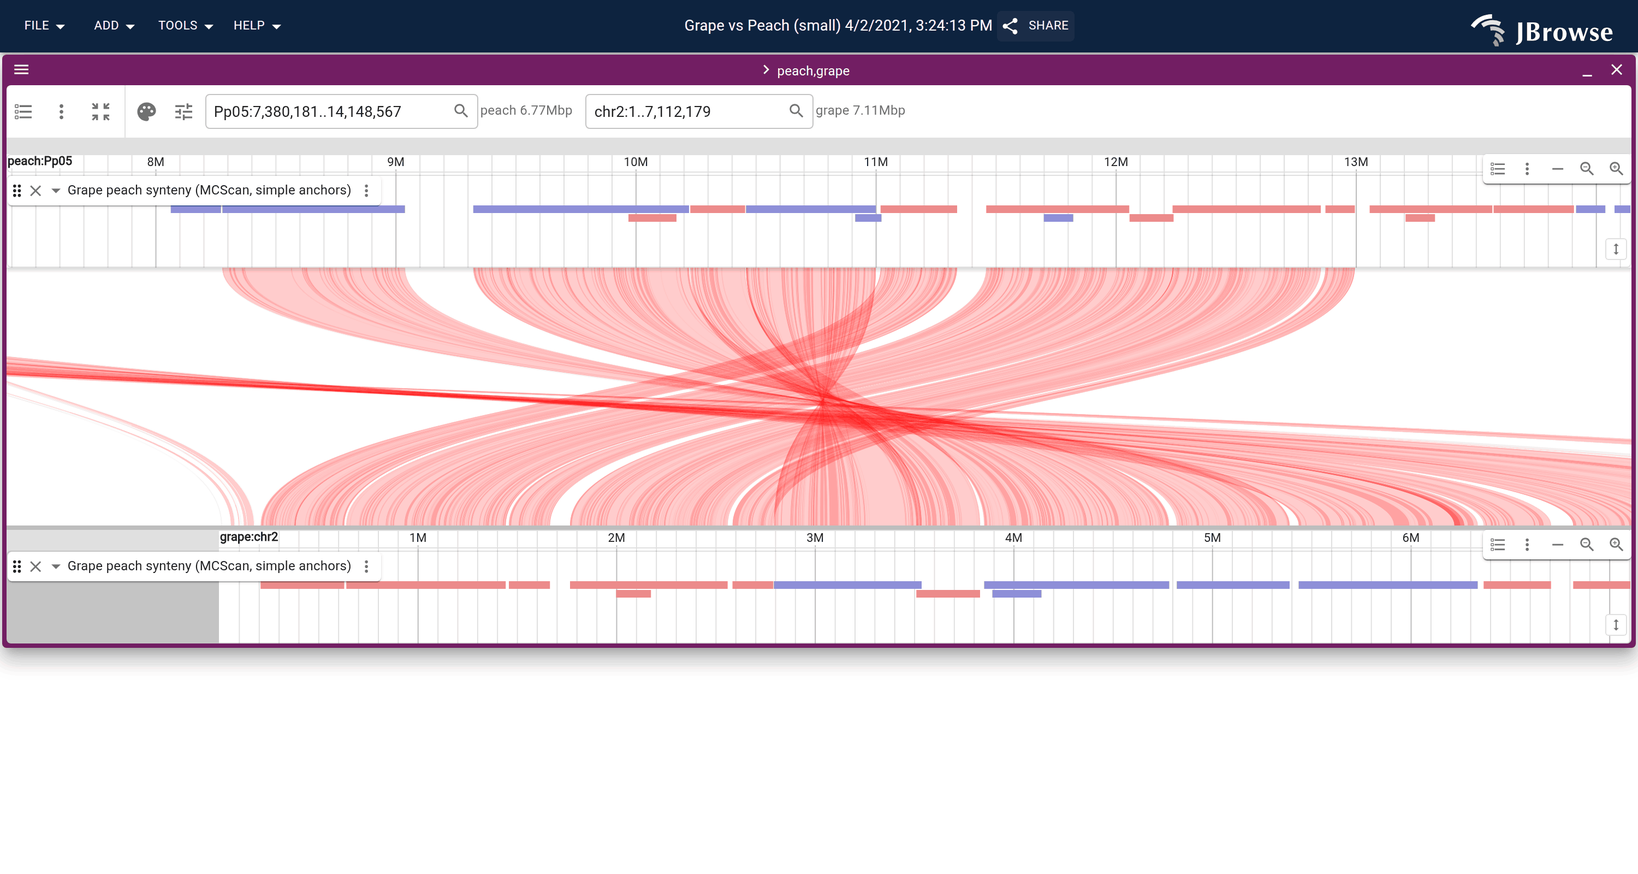
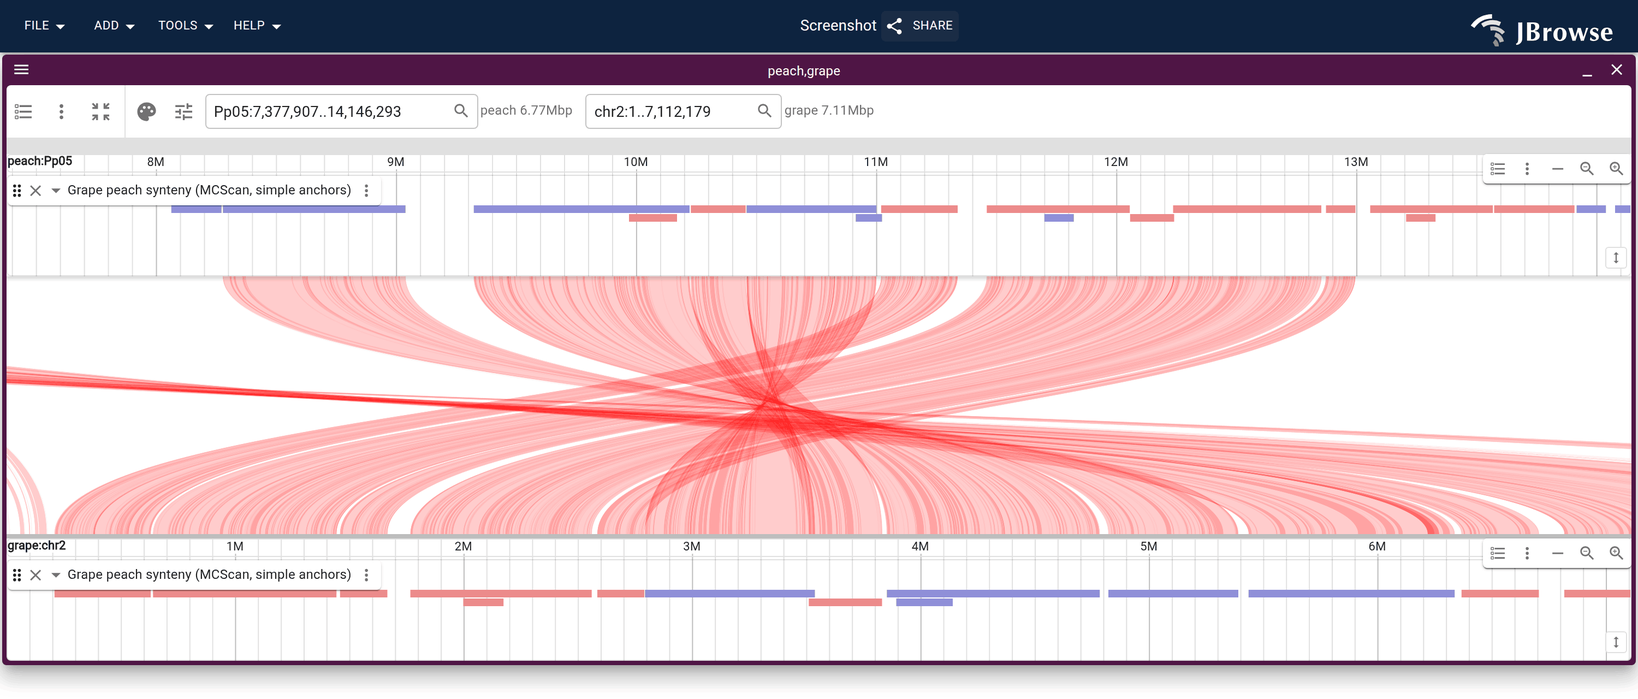
fix(website): retire the gallery's share-link sessions and fix wrong captions
The gallery had two cards backed by opaque `share-` sessions on
share.jbrowse.org. Decrypting both showed why that is not a safe way to
pin a figure:

- `share-sA7riIQWhJ` ("Read pair and split-read connections") was a
  Jan-2025 snapshot of the pre-4.4 composite LinearAlignmentsDisplay,
  with its settings nested under `PileupDisplay` / `heightPreConfig` /
  `colorBySetting`. migrateAlignmentsSnapshot only remaps the top-level
  `type`, so MST dropped all of it and the card opened as an unstyled
  pileup - with the connection curves, its entire subject, missing. It
  also re-added an ONT-UL track that is ~52MB over this window, past the
  region-size gate. The comment above the read-cloud item already
  documented this exact failure being fixed there; this one was missed.
- `share-4MjF5YGM_G` (`linear_synteny_gallery`) was a frozen Apr-2021
  session, so the capture baked a stale "Grape vs Peach (small)
  4/2/2021" name into the title bar, and its grape panel sat at a
  negative offsetPx, leaving a grey off-region block in the corner.

Rebuilt the synteny one declaratively (locs read off the old capture's
own location boxes) and dropped the read-connections card, which review
judged not gallery-worthy. No `session=share-` remains in the figure
pipeline. Read-cloud now points at the purpose-built
`alignments/read_cloud` spec rather than a hand-written session with no
figure.

A gallery-only `gallery/inverted_duplication` splits the doc figure from
[…]

diff --git a/website/src/lib/galleryLinks.generated.ts b/website/src/lib/galleryLinks.generated.ts
@@ -14,8 +14,9 @@ export const specSessionUrls: Record<string, string> = {
   "multiway_synteny/ecoli_pangenome": "?config=https%3A%2F%2Fjbrowse.org%2Fdemos%2Fecoli_pangenome%2Fconfig.json&session=spec-%7B%22views%22%3A%5B%7B%22type%22%3A%22LinearSyntenyView%22%2C%22views%22%3A%5B%7B%22assembly%22%3A%22K12%22%7D%2C%7B%22assembly%22%3A%22Sakai%22%7D%2C%7B%22assembly%22%3A%22CFT073%22%7D%2C%7B%22assembly%22%3A%22NCTC86%22%7D%5D%2C%22tracks%22%3A%5B%5B%22ecoli_ava%22%5D%2C%5B%22ecoli_ava%22%5D%2C%5B%22ecoli_ava%22%5D%5D%2C%22drawCurves%22%3Afalse%2C%22colorBy%22%3A%22default%22%2C%22minAlignmentLength%22%3A10000%7D%5D%7D&sessionName=Screenshot",
   "multiway_synteny/ecoli_stx_island": "?config=https%3A%2F%2Fjbrowse.org%2Fdemos%2Fecoli_pangenome%2Fconfig.json&session=spec-%7B%22views%22%3A%5B%7B%22type%22%3A%22LinearSyntenyView%22%2C%22views%22%3A%5B%7B%22assembly%22%3A%22K12%22%2C%22loc%22%3A%22chr%3A1%2C026%2C000-1%2C126%2C000%22%2C%22tracks%22%3A%5B%7B%22trackId%22%3A%22K12_genes%22%2C%22showOnlyGenes%22%3Atrue%2C%22displayMode%22%3A%22compact%22%2C%22showDescriptions%22%3Afalse%7D%5D%7D%2C%7B%22assembly%22%3A%22Sakai%22%2C%22loc%22%3A%22chr%3A1%2C205%2C000-1%2C305%2C000%22%2C%22tracks%22%3A%5B%7B%22trackId%22%3A%22Sakai_genes%22%2C%22showOnlyGenes%22%3Atrue%2C%22displayMode%22%3A%22compact%22%2C%22showDescriptions%22%3Afalse%7D%5D%7D%5D%2C%22tracks%22%3A%5B%5B%22ecoli_ava%22%5D%5D%2C%22drawCurves%22%3Atrue%2C%22colorBy%22%3A%22default%22%7D%5D%7D&sessionName=Screenshot",
   "multiway_synteny/ecoli_one_vs_all": "?config=https%3A%2F%2Fjbrowse.org%2Fdemos%2Fecoli_pangenome%2Fconfig.json&session=spec-%7B%22views%22%3A%5B%7B%22type%22%3A%22LinearGenomeView%22%2C%22assembly%22%3A%22K12%22%2C%22loc%22%3A%22chr%3A1%2C433%2C000-1%2C467%2C500%22%2C%22tracks%22%3A%5B%7B%22trackId%22%3A%22K12_genes%22%2C%22showOnlyGenes%22%3Atrue%2C%22displayMode%22%3A%22compact%22%2C%22showDescriptions%22%3Afalse%7D%2C%7B%22trackId%22%3A%22ecoli_ava%22%2C%22type%22%3A%22LGVSyntenyDisplay%22%2C%22groupBy%22%3A%7B%22type%22%3A%22mateAssembly%22%7D%2C%22height%22%3A250%7D%5D%7D%5D%7D&sessionName=Screenshot",
+  "multiway_synteny/ecoli_one_vs_all_whole_genome": "?config=https%3A%2F%2Fjbrowse.org%2Fdemos%2Fecoli_pangenome%2Fconfig.json&session=spec-%7B%22views%22%3A%5B%7B%22type%22%3A%22LinearGenomeView%22%2C%22assembly%22%3A%22K12%22%2C%22loc%22%3A%22chr%3A1-4%2C641%2C652%22%2C%22tracks%22%3A%5B%7B%22trackId%22%3A%22ecoli_pggb_ava%22%2C%22type%22%3A%22LGVSyntenyDisplay%22%2C%22groupBy%22%3A%7B%22type%22%3A%22mateAssembly%22%7D%2C%22height%22%3A130%7D%5D%7D%5D%7D&sessionName=Screenshot",
   "multiway_synteny/ecoli_import_form": "?config=https%3A%2F%2Fjbrowse.org%2Fdemos%2Fecoli_pangenome%2Fconfig.json&session=spec-%7B%22views%22%3A%5B%5D%7D&sessionName=Screenshot",
-  "linear_synteny_gallery": "?config=test_data%2Fconfig_dotplot.json&session=share-4MjF5YGM_G&password=rByjt",
+  "linear_synteny_gallery": "?config=test_data/config_dotplot.json&session=spec-%7B%22views%22%3A%5B%7B%22type%22%3A%22LinearSyntenyView%22%2C%22drawCurves%22%3Atrue%2C%22tracks%22%3A%5B%5B%22grape_peach_synteny_mcscan%22%2C%22grape_peach_synteny_mcscan_simple%22%5D%5D%2C%22levelHeights%22%3A%5B236%5D%2C%22views%22%3A%5B%7B%22assembly%22%3A%22peach%22%2C%22loc%22%3A%22Pp05%3A7%2C380%2C181-14%2C148%2C567%22%2C%22tracks%22%3A%5B%7B%22trackId%22%3A%22grape_peach_synteny_mcscan_simple%22%2C%22type%22%3A%22LGVSyntenyDisplay%22%2C%22height%22%3A60%7D%5D%7D%2C%7B%22assembly%22%3A%22grape%22%2C%22loc%22%3A%22chr2%3A1-7%2C112%2C179%22%2C%22tracks%22%3A%5B%7B%22trackId%22%3A%22grape_peach_synteny_mcscan_simple%22%2C%22type%22%3A%22LGVSyntenyDisplay%22%2C%22height%22%3A60%7D%5D%7D%5D%7D%5D%7D&sessionName=Screenshot",
   "hs1_vs_mm39_synteny": "?config=test_data/hs1_vs_mm39/config.json&session=spec-%7B%22views%22%3A%5B%7B%22type%22%3A%22LinearSyntenyView%22%2C%22tracks%22%3A%5B%22hs1ToMm39.over.chain.pif%22%5D%2C%22minAlignmentLength%22%3A500000%2C%22drawCurves%22%3Afalse%2C%22autoDiagonalize%22%3Atrue%2C%22colorBy%22%3A%22query%22%2C%22alpha%22%3A0.4%2C%22levelHeights%22%3A%5B350%5D%2C%22views%22%3A%5B%7B%22assembly%22%3A%22hs1%22%7D%2C%7B%22assembly%22%3A%22mm39%22%7D%5D%7D%5D%7D&sessionName=Screenshot",
   "synteny_hg38_hs1_tnnt3": "?config=test_data/hg38_hs1_synteny/config.json&session=spec-%7B%22views%22%3A%5B%7B%22type%22%3A%22LinearSyntenyView%22%2C%22colorBy%22%3A%22strand%22%2C%22tracks%22%3A%5B%5B%22hg38_hs1_synteny%22%5D%5D%2C%22drawCurves%22%3Atrue%2C%22cigarMode%22%3A%22matches%22%2C%22views%22%3A%5B%7B%22assembly%22%3A%22hg38%22%2C%22loc%22%3A%22chr11%3A1%2C881%2C000-1%2C955%2C000%22%2C%22tracks%22%3A%5B%7B%22trackId%22%3A%22hg38-genes%22%2C%22geneGlyphMode%22%3A%22longestCoding%22%7D%5D%2C%22trackLabels%22%3A%22offset%22%7D%2C%7B%22assembly%22%3A%22hs1%22%2C%22loc%22%3A%22chr11%3A1%2C964%2C700-2%2C038%2C700%22%2C%22tracks%22%3A%5B%7B%22trackId%22%3A%22hs1-genes%22%2C%22geneGlyphMode%22%3A%22longestCoding%22%2C%22showOnlyGenes%22%3Atrue%7D%5D%2C%22trackLabels%22%3A%22offset%22%7D%5D%7D%5D%7D&sessionName=Screenshot",
   "genomes_synteny/ribbons_default": "?config=test_data/hg38_hs1_synteny/config.json&session=spec-%7B%22views%22%3A%5B%7B%22type%22%3A%22LinearSyntenyView%22%2C%22colorBy%22%3A%22strand%22%2C%22tracks%22%3A%5B%5B%22hg38_hs1_synteny%22%5D%5D%2C%22views%22%3A%5B%7B%22assembly%22%3A%22hg38%22%2C%22loc%22%3A%22chr11%3A1%2C881%2C000-1%2C955%2C000%22%2C%22tracks%22%3A%5B%7B%22trackId%22%3A%22hg38-genes%22%2C%22geneGlyphMode%22%3A%22longestCoding%22%7D%5D%2C%22trackLabels%22%3A%22offset%22%7D%2C%7B%22assembly%22%3A%22hs1%22%2C%22loc%22%3A%22chr11%3A1%2C964%2C700-2%2C038%2C700%22%2C%22tracks%22%3A%5B%7B%22trackId%22%3A%22hs1-genes%22%2C%22geneGlyphMode%22%3A%22longestCoding%22%2C%22showOnlyGenes%22%3Atrue%7D%5D%2C%22trackLabels%22%3A%22offset%22%7D%5D%7D%5D%7D&sessionName=Screenshot",
@@ -139,6 +140,7 @@ export const specSessionUrls: Record<string, string> = {
   "smalldel": "?config=test_data/config_demo.json&session=spec-%7B%22sessionTracks%22%3A%5B%7B%22type%22%3A%22AlignmentsTrack%22%2C%22trackId%22%3A%22hg002_nanopore_hp%22%2C%22name%22%3A%22HG002%20ONT%22%2C%22assemblyNames%22%3A%5B%22hg19%22%5D%2C%22adapter%22%3A%7B%22type%22%3A%22BamAdapter%22%2C%22bamLocation%22%3A%7B%22uri%22%3A%22https%3A%2F%2Fftp-trace.ncbi.nlm.nih.gov%2Fgiab%2Fftp%2Fdata%2FAshkenazimTrio%2FHG002_NA24385_son%2FUltralong_OxfordNanopore%2Fcombined_2018-08-10%2FHG002_ONTrel2_16x_RG_HP10xtrioRTG.cram.bam%22%2C%22locationType%22%3A%22UriLocation%22%7D%2C%22index%22%3A%7B%22location%22%3A%7B%22uri%22%3A%22https%3A%2F%2Fftp-trace.ncbi.nlm.nih.gov%2Fgiab%2Fftp%2Fdata%2FAshkenazimTrio%2FHG002_NA24385_son%2FUltralong_OxfordNanopore%2Fcombined_2018-08-10%2FHG002_ONTrel2_16x_RG_HP10xtrioRTG.cram.bam.bai%22%2C%22locationType%22%3A%22UriLocation%22%7D%2C%22indexType%22%3A%22BAI%22%7D%7D%7D%5D%2C%22views%22%3A%5B%7B%22type%22%3A%22LinearGenomeView%22%2C%22assembly%22%3A%22hg19%22%2C%22loc%22%3A%221%3A63%2C005%2C675-63%2C007%2C432%22%2C%22tracks%22%3A%5B%22variants_hg002%22%2C%7B%22trackId%22%3A%22hg002_nanopore_hp%22%2C%22type%22%3A%22LinearAlignmentsDisplay%22%2C%22height%22%3A400%2C%22forceLoad%22%3Atrue%2C%22groupBy%22%3A%7B%22type%22%3A%22tag%22%2C%22tag%22%3A%22HP%22%7D%2C%22colorBy%22%3A%7B%22type%22%3A%22tag%22%2C%22tag%22%3A%22HP%22%7D%7D%5D%7D%5D%7D&sessionName=Screenshot",
   "alignment_clipping_indicators": "?config=test_data/volvox/config.json&session=spec-%7B%22views%22%3A%5B%7B%22type%22%3A%22LinearGenomeView%22%2C%22assembly%22%3A%22volvox%22%2C%22loc%22%3A%22ctgA%3A2%2C560-2%2C760%22%2C%22tracks%22%3A%5B%7B%22trackId%22%3A%22volvox-long-reads-sv-bam%22%2C%22type%22%3A%22LinearAlignmentsDisplay%22%2C%22coverageHeight%22%3A120%7D%5D%7D%5D%7D&sessionName=Screenshot",
   "inverted_duplication": "?config=https%3A%2F%2Fjbrowse.org%2Fgenomes%2FGRCh38%2F1000genomes%2Fconfig_1000genomes.json&session=spec-%7B%22views%22%3A%5B%7B%22type%22%3A%22LinearGenomeView%22%2C%22assembly%22%3A%22hg38%22%2C%22loc%22%3A%221%3A39%2C658%2C200-39%2C661%2C800%22%2C%22trackLabels%22%3A%22offset%22%2C%22tracks%22%3A%5B%221KGP_3202.Illumina_ensemble_callset.freeze_V1.vcf%22%2C%7B%22trackId%22%3A%22HG02768.final%22%2C%22linkedReads%22%3A%22normal%22%2C%22readConnections%22%3A%22arc%22%2C%22readConnectionsDown%22%3Atrue%2C%22height%22%3A1300%2C%22coverageHeight%22%3A120%2C%22featureHeight%22%3A9%2C%22colorBy%22%3A%7B%22type%22%3A%22pairOrientation%22%7D%2C%22showLegend%22%3Atrue%7D%5D%7D%5D%7D&sessionName=Screenshot",
+  "gallery/inverted_duplication": "?config=https%3A%2F%2Fjbrowse.org%2Fgenomes%2FGRCh38%2F1000genomes%2Fconfig_1000genomes.json&session=spec-%7B%22views%22%3A%5B%7B%22type%22%3A%22LinearGenomeView%22%2C%22assembly%22%3A%22hg38%22%2C%22loc%22%3A%221%3A39%2C658%2C200-39%2C661%2C800%22%2C%22trackLabels%22%3A%22offset%22%2C%22tracks%22%3A%5B%221KGP_3202.Illumina_ensemble_callset.freeze_V1.vcf%22%2C%7B%22trackId%22%3A%22HG02768.final%22%2C%22linkedReads%22%3A%22normal%22%2C%22readConnections%22%3A%22arc%22%2C%22readConnectionsDown%22%3Atrue%2C%22heightMode%22%3A%22grow%22%2C%22coverageHeight%22%3A120%2C%22featureHeight%22%3A3%2C%22colorBy%22%3A%7B%22type%22%3A%22pairOrientation%22%7D%2C%22showLegend%22%3Atrue%7D%5D%7D%5D%7D&sessionName=Screenshot",
   "inversion_long_read": "?config=https%3A%2F%2Fjbrowse.org%2Fgenomes%2FGRCh38%2F1000genomes%2Fconfig_1000genomes.json&session=spec-%7B%22sessionTracks%22%3A%5B%7B%22type%22%3A%22AlignmentsTrack%22%2C%22trackId%22%3A%22HG00151_ONT_1000g%22%2C%22name%22%3A%22HG00151%20Nanopore%20(1000G%20ONT%2C%20minimap2)%22%2C%22assemblyNames%22%3A%5B%22hg38%22%5D%2C%22adapter%22%3A%7B%22type%22%3A%22BamAdapter%22%2C%22bamLocation%22%3A%7B%22uri%22%3A%22https%3A%2F%2F1000g-ont.s3.amazonaws.com%2FPROCESSED_DATA%2FALIGNED_TO_HG38%2FMINIMAP2_ALIGNED_BAMS%2FHG00151-ONT-hg38-R9-LSK110-guppy-sup-5mC.phased.bam%22%2C%22locationType%22%3A%22UriLocation%22%7D%2C%22index%22%3A%7B%22location%22%3A%7B%22uri%22%3A%22https%3A%2F%2F1000g-ont.s3.amazonaws.com%2FPROCESSED_DATA%2FALIGNED_TO_HG38%2FMINIMAP2_ALIGNED_BAMS%2FHG00151-ONT-hg38-R9-LSK110-guppy-sup-5mC.phased.bam.bai%22%2C%22locationType%22%3A%22UriLocation%22%7D%2C%22indexType%22%3A%22BAI%22%7D%7D%7D%5D%2C%22views%22%3A%5B%7B%22type%22%3A%22LinearGenomeView%22%2C%22assembly%22%3A%22hg38%22%2C%22loc%22%3A%221%3A197%2C785%2C500-197%2C791%2C000%22%2C%22tracks%22%3A%5B%221KGP_3202.Illumina_ensemble_callset.freeze_V1.vcf%22%2C%7B%22trackId%22%3A%22HG00151_ONT_1000g%22%2C%22linkedReads%22%3A%22normal%22%2C%22readConnections%22%3A%22arc%22%2C%22drawInter%22%3Afalse%2C%22drawLongRange%22%3Afalse%2C%22readConnectionsHeight%22%3A130%2C%22height%22%3A800%2C%22coverageHeight%22%3A70%2C%22colorBy%22%3A%7B%22type%22%3A%22pairOrientation%22%7D%7D%5D%7D%5D%7D&sessionName=Screenshot",
   "sv_cgiab/translocation_sv_inspector_start": "?config=https%3A%2F%2Fjbrowse.org%2Fdemos%2Fcgiab%2Fconfig.json&session=spec-%7B%22views%22%3A%5B%5D%7D&sessionName=Screenshot",
   "sv_cgiab/translocation_sv_inspector_view": "?config=https%3A%2F%2Fjbrowse.org%2Fdemos%2Fcgiab%2Fconfig.json&session=spec-%7B%22views%22%3A%5B%7B%22type%22%3A%22SvInspectorView%22%2C%22assembly%22%3A%22GRCh38_GIABv3%22%2C%22uri%22%3A%22https%3A%2F%2Fftp-trace.ncbi.nlm.nih.gov%2FReferenceSamples%2Fgiab%2Fdata_somatic%2FHG008%2FLiss_lab%2Fanalysis%2FNIST_HG008-T_somatic-stvar-CNV_DraftBenchmark_V0.5-20260318%2FGRCh38_HG008-T-V0.5_somatic-stvar_PASS.draftbenchmark.vcf.gz%22%2C%22height%22%3A1000%7D%5D%7D&sessionName=Screenshot",

diff --git a/website/src/lib/gallery.ts b/website/src/lib/gallery.ts
@@ -50,11 +50,11 @@ export function itemImg(item: GalleryItem) {
   return item.img ?? (item.spec ? `${item.spec}.png` : undefined)
 }
 
-// The live app (or external) destination for an item: a `session` override
-// wins (set precisely to point somewhere other than the spec default), then an
-// external `href`, then the spec-derived live session. Ignores `guide` — the
-// backing tutorial is surfaced as its own "read more" link on the card rather
-// than as the primary destination.
+// The live app (or external) destination for an item: an external `href` wins,
+// then a `session` override (set precisely to point somewhere other than the
+// spec default), then the spec-derived live session; `undefined` when the item
+// has no live view at all. Ignores `guide` — the backing tutorial is surfaced as
+// its own "read more" link on the card rather than as the primary destination.
 export function itemLiveHref(item: GalleryItem) {
   if (item.href) {
     return item.href
@@ -69,9 +69,12 @@ export function itemLiveHref(item: GalleryItem) {
         `gallery item "${item.label}" references unknown screenshot spec "${item.spec}" — run \`pnpm gen:gallery-links\` after editing screenshot-specs.ts`,
       )
     }
-    return url.startsWith('http') ? url : CODE_BASE + url
+    // always a relative `?config=…&session=…` query — a spec's url is what the
+    // generator opened against the local build, never an absolute URL. An
+    // absolute destination is what `href` is for.
+    return CODE_BASE + url
   }
-  return ''
+  return undefined
 }
 
 // Whether an item's backing doc is a tutorial or a user guide — the two pages
@@ -79,6 +82,13 @@ export function itemLiveHref(item: GalleryItem) {
 // the tutorials/ vs guide distinction is shared, so it lives here.
 export function itemGuideKind(item: GalleryItem) {
   return item.guide?.startsWith('tutorials/') ? 'tutorial' : 'guide'
+}
+
+// Link text, exported so the pages can't word the same destination differently.
+export const LIVE_LABEL = 'Open in JBrowse ↗'
+
+export function itemGuideLabel(item: GalleryItem) {
+  return `Read the ${itemGuideKind(item)} ↗`
 }
 
 // Docs URL for the tutorial / user guide backing an item, if it names one.
@@ -91,10 +101,15 @@ export function itemGuideHref(item: GalleryItem, baseUrl: string) {
   return `${baseUrl}/docs/${path}/${hash ? `#${hash}` : ''}`
 }
 
-// Single best destination for an item (used by the demos page's compact link
-// list): the live session if there is one, otherwise the backing guide.
-export function itemHref(item: GalleryItem, baseUrl: string) {
-  return itemLiveHref(item) || itemGuideHref(item, baseUrl) || ''
+// The single destination an item leads with, and the words for it: the live
+// session when there is one, else the backing doc. Both pages route through this
+// — the demos list uses just the href, the gallery lightbox uses both — so the
+// fallback order and the wording can't diverge between them.
+export function itemPrimary(item: GalleryItem, baseUrl: string) {
+  const live = itemLiveHref(item)
+  return live
+    ? { href: live, label: LIVE_LABEL }
+    : { href: itemGuideHref(item, baseUrl), label: itemGuideLabel(item) }
 }
 
 export const gallerySections: readonly GallerySection[] = [
@@ -114,7 +129,7 @@ export const gallerySections: readonly GallerySection[] = [
         spec: 'linear_synteny_gallery',
         guide: 'tutorials/synteny_visualization',
         description:
-          'Grape vs peach MCScan synteny at two levels at once: the coarse blocks, with the fine per-gene anchor links drawn on top of them, red for collinear and blue for inverted.',
+          "Peach Pp05 against grape chr2 with MCScan anchors: the per-gene anchor ribbons fan between the two panels, and the same anchors read as strand-colored blocks in each panel's own row — red collinear, blue inverted.",
       },
       {
         label: 'Human vs mouse synteny',
@@ -179,18 +194,11 @@ export const gallerySections: readonly GallerySection[] = [
           'The multi-sample variant display draws one row per sample straight from a multi-sample VCF — 3,202 rows here — over a 5 Mb window, colored by genotype. Carriers of a large chr19 inversion read as a solid block in the 1000 Genomes SV callset.',
       },
       {
-        label: 'Read pair and split-read connections',
-        session:
-          '?config=test_data%2Fconfig_demo.json&session=share-sA7riIQWhJ&password=3pkHd',
-        description:
-          'Curves drawn between the two ends of paired-end reads and between the pieces of a split long read, across PacBio, Illumina 2x250, and ONT ultra-long tracks at an HG002 inversion. Both breakends fall in the same window, so the connections stay in one row instead of spanning two linked panels.',
-      },
-      {
         label: 'Pair orientation coloring',
-        spec: 'inverted_duplication',
+        spec: 'gallery/inverted_duplication',
         guide: 'user_guides/sv_visualization',
         description:
-          'Read pairs colored by orientation and joined to their mates by arcs: teal RL pairs point away from each other over the duplicated copy, green LL and dark blue RR pairs run in the same direction over the inverted one. They are a minority of an otherwise grey concordant pileup, so they cluster at the breakpoints of this 1000 Genomes INVdup call.',
+          'Read pairs colored by orientation and joined to their mates by arcs: green LL, navy RR, and magenta split reads flag the inverted segment of this 1000 Genomes INVdup call, a minority signal clustered at the breakpoints of an otherwise grey concordant pileup. The duplicated copy reads out as elevated coverage and arcs rather than a read color of its own.',
       },
       {
         label: 'Tumor/normal split view',
@@ -201,16 +209,10 @@ export const gallerySections: readonly GallerySection[] = [
       },
       {
         label: 'Read cloud mode',
-        // Rebuilt as a session spec: the old share link saved the pre-4.4
-        // LinearReadCloudDisplay, whose settings no longer survive the unified
-        // LinearAlignmentsDisplay migration, so it opened as a plain pileup.
-        // Its ONT-UL track is dropped — 52MB over this window, past the
-        // region-size gate, so the link sat on a "too much data" banner (or a
-        // minute of downloading with forceLoad) instead of showing the cloud.
-        session:
-          '?config=test_data/config_demo.json&session=spec-{"views":[{"type":"LinearGenomeView","assembly":"hg19","loc":"chr1:197,745,000-197,767,000","tracks":[{"trackId":"pacbio_hg002","type":"LinearAlignmentsDisplay","readConnections":"cloud","height":260},{"trackId":"illumina_hg002","type":"LinearAlignmentsDisplay","readConnections":"cloud","readConnectionsHeight":120,"height":320}]}]}',
+        spec: 'alignments/read_cloud',
+        guide: 'user_guides/sv_visualization',
         description:
-          'The same locus in cloud mode, where each mate pair and split-read chain collapses to one mark placed by its insert size, so anomalously spaced or oriented pairs sit apart from the normal ones. PacBio and Illumina 2x250 above their pileups.',
+          'Cloud mode collapses each mate pair and split-read chain to one mark placed by its insert size, so the deletion and short-insert pairs lift off the concordant baseline instead of hiding in the pileup below. Marks are colored by insert size and orientation together.',
       },
     ],
   },
@@ -453,7 +455,7 @@ export const gallerySections: readonly GallerySection[] = [
     ],
   },
   {
-    id: 'instances',
+    id: 'hubs',
     title: 'Track hubs',
     items: [
       {

diff --git a/website/scripts/specs/sv.ts b/website/scripts/specs/sv.ts
@@ -426,6 +426,61 @@ export const svSpecs: ScreenshotSpec[] = [
     ],
   },
 
+  // Gallery card for the same locus. The doc figure above is built to be read
+  // beside prose — normal read height so the minority LL/RR pairs are legible,
+  // the variant's INFO fields open, callouts naming each line of evidence. All
+  // three work against a gallery card: the drawer is ~26% of the width and
+  // overflows below the app frame, and the result is a 3000x3700 portrait PNG
+  // where the informative discordant cluster is the bottom sixth.
+  //
+  // So: no drawer, no callouts, and the Compact read preset (featureHeight 3,
+  // spacing derived to 0 — see compactnessPresets.ts) instead of 9. That is a
+  // ~3.3x shorter pileup, i.e. a landscape card at the same information. NOT
+  // Super-compact (featureHeight 1): the whole subject of the card is a minority
+  // color signal, and 1px reads erase it — the same reason the doc spec above
+  // raised the height to 9 in the first place.
+  //
+  // heightMode 'grow' rather than a guessed `height`: the discordant reads land
+  // at the BOTTOM of the pileup layout, so a track too short by any amount
+  // scrolls away exactly the thing being shown. Grow fits every row (~126 rows
+  // x 3px + coverage, well under GROW_MAX_HEIGHT 800).
+  {
+    mode: 'url',
+    name: 'gallery/inverted_duplication',
+    url: kgUrl({
+      views: [
+        {
+          type: 'LinearGenomeView',
+          assembly: 'hg38',
+          loc: '1:39,658,200-39,661,800',
+          trackLabels: 'offset',
+          tracks: [
+            '1KGP_3202.Illumina_ensemble_callset.freeze_V1.vcf',
+            {
+              trackId: 'HG02768.final',
+              linkedReads: 'normal',
+              readConnections: 'arc',
+              readConnectionsDown: true,
+              heightMode: 'grow',
+              coverageHeight: 120,
+              featureHeight: 3,
+              colorBy: { type: 'pairOrientation' },
+              // the legend is what makes a compact card's colors readable
+              showLegend: true,
+            },
+          ],
+        },
+      ],
+    }),
+    readyText: 'HG02768',
+    readyTimeout: 60000,
+    // must clear the grown track (~610px here), else the capture crops exactly
+    // the discordant cluster at the bottom of the layout — measured against the
+    // rendered app rather than guessed, so there is no trailing whitespace
+    viewportHeight: 900,
+    settleMs: 30000,
+  },
+
   // Same inversion, short reads vs long reads, in ONE sample (HG00151). The
   // companion to inverted_duplication: that figure shows how short paired-end
   // reads only *infer* an inversion (from discordant pair orientation + a few

diff --git a/website/scripts/specs/synteny.ts b/website/scripts/specs/synteny.ts
@@ -137,7 +137,7 @@ export const syntenySpecs: ScreenshotSpec[] = [
     // flagged). Both panels span their full assemblies at matched scale, so the
     // ribbons stay inside the view. Per-query color plus a higher alpha and a
     // taller synteny band keep the straight ribbons legible.
-    url: sessionSpec('test_data/config_dotplot.json', {
+    url: sessionSpec(DOTPLOT_CONFIG, {
       views: [
         {
           type: 'LinearSyntenyView',

diff --git a/website/docs/user_guides/sv_visualization.md b/website/docs/user_guides/sv_visualization.md
@@ -66,7 +66,7 @@ pair orientations are not supported. The table below assumes `fr`:
 
 <!-- COLOR_TABLE alignments-pair-orientation END -->
 
-<Figure caption="An inverted duplication (CPX type INVdup, HGSV_2721) shown twice: a compact overview (top frame) and the same locus at normal feature height (bottom frame). Teal RL reads (mates pointing away) flag the tandem duplication; green LL and dark blue RR same-direction reads flag the inversion. These orientation-colored reads are a minority of an otherwise concordant grey pileup, so they cluster at the breakpoints." src="/img/inverted_duplication.png" />
+<Figure caption="An inverted duplication (CPX type INVdup, HGSV_2721) in HG02768 paired-end reads, with the 1KGP ensemble call above and the variant's INFO fields open alongside. Green LL, navy RR, and magenta split reads flag the inverted segment; the duplicated copy reads out as elevated coverage and arcs. These orientation-colored reads are a minority of an otherwise concordant grey pileup, so they cluster at the breakpoints." src="/img/inverted_duplication.png" />
 
 #### Short reads vs. long reads
 

diff --git a/website/docs/user_guides/alignments_track.md b/website/docs/user_guides/alignments_track.md
@@ -114,7 +114,7 @@ short-insert signal isn't washed out. See the
 [SV visualization guide](/docs/user_guides/sv_visualization) for the full color
 tables.
 
-<Figure caption="Reads colored by pair orientation at an inverted duplication. Most pairs are concordant LR (grey); the discordant ones cluster at the breakpoints: teal RL pairs (mates pointing away) flag the tandem duplication, while green LL and dark blue RR same-direction pairs flag the inversion." src="/img/inverted_duplication.png" />
+<Figure caption="Reads colored by pair orientation at an inverted duplication. Most pairs are concordant LR (grey); the discordant ones cluster at the breakpoints — green LL, navy RR, and magenta split reads over the inverted segment." src="/img/inverted_duplication.png" />
 
 ### By tag
 
